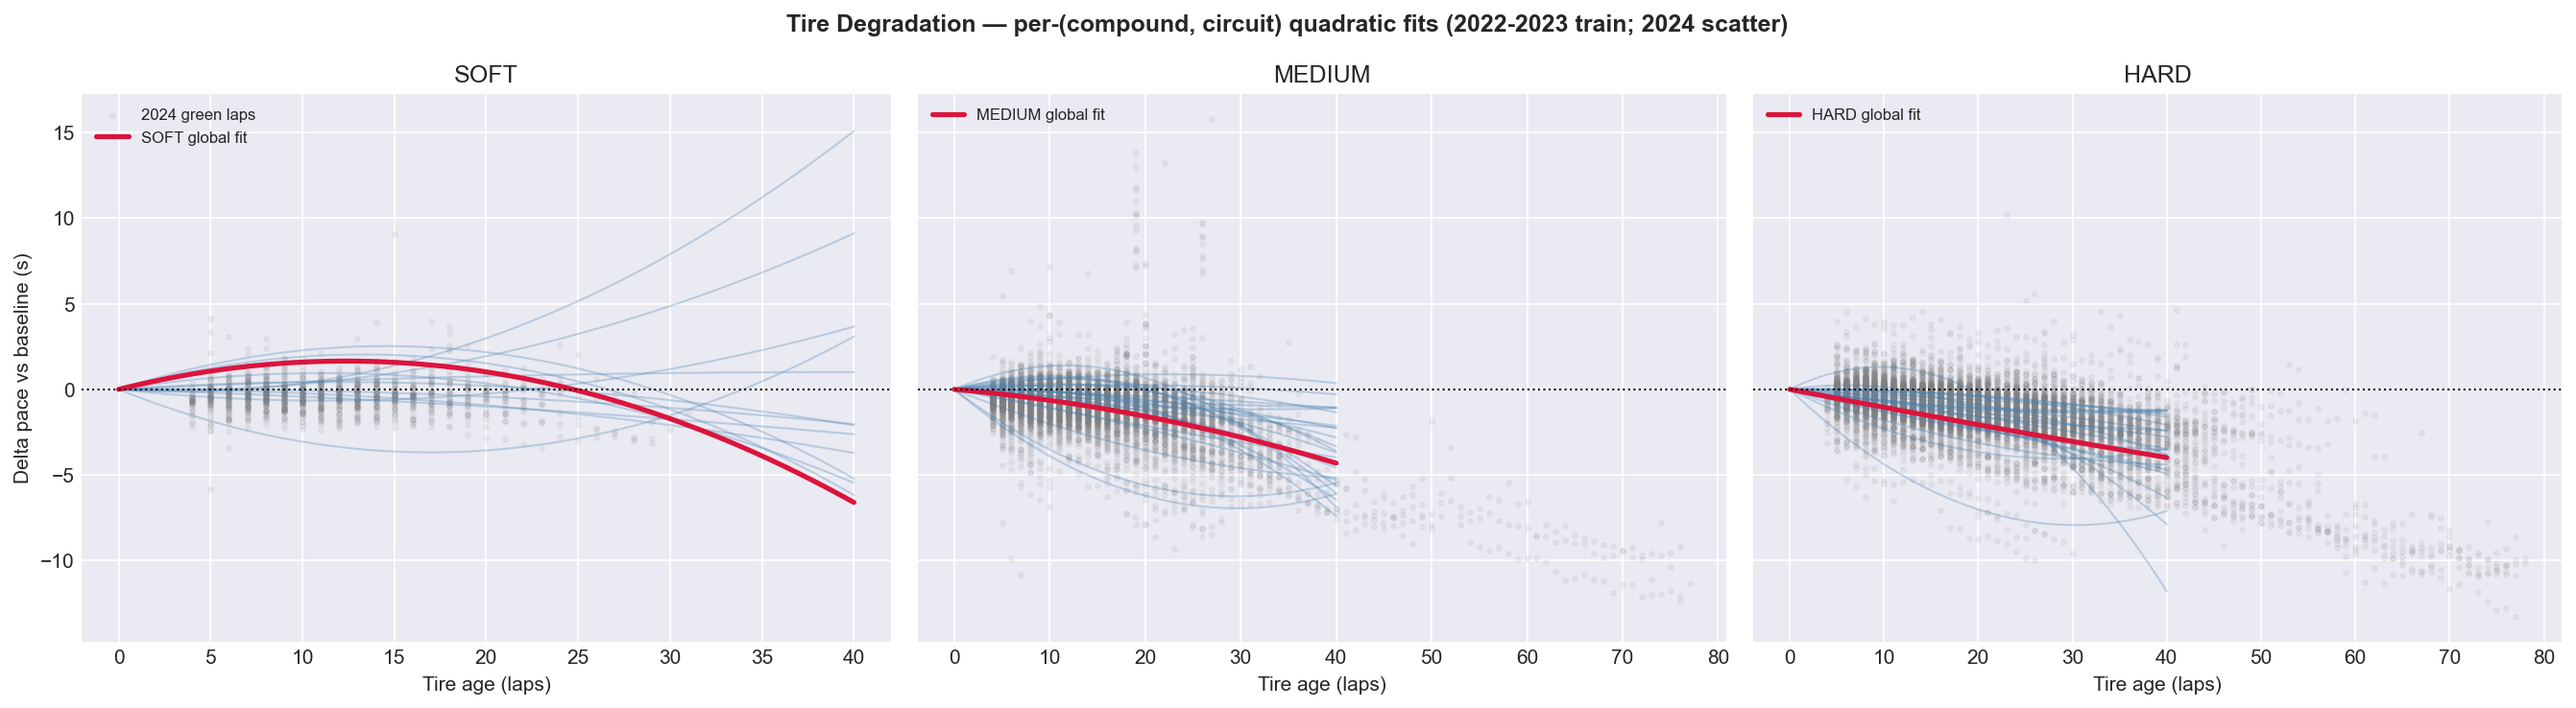
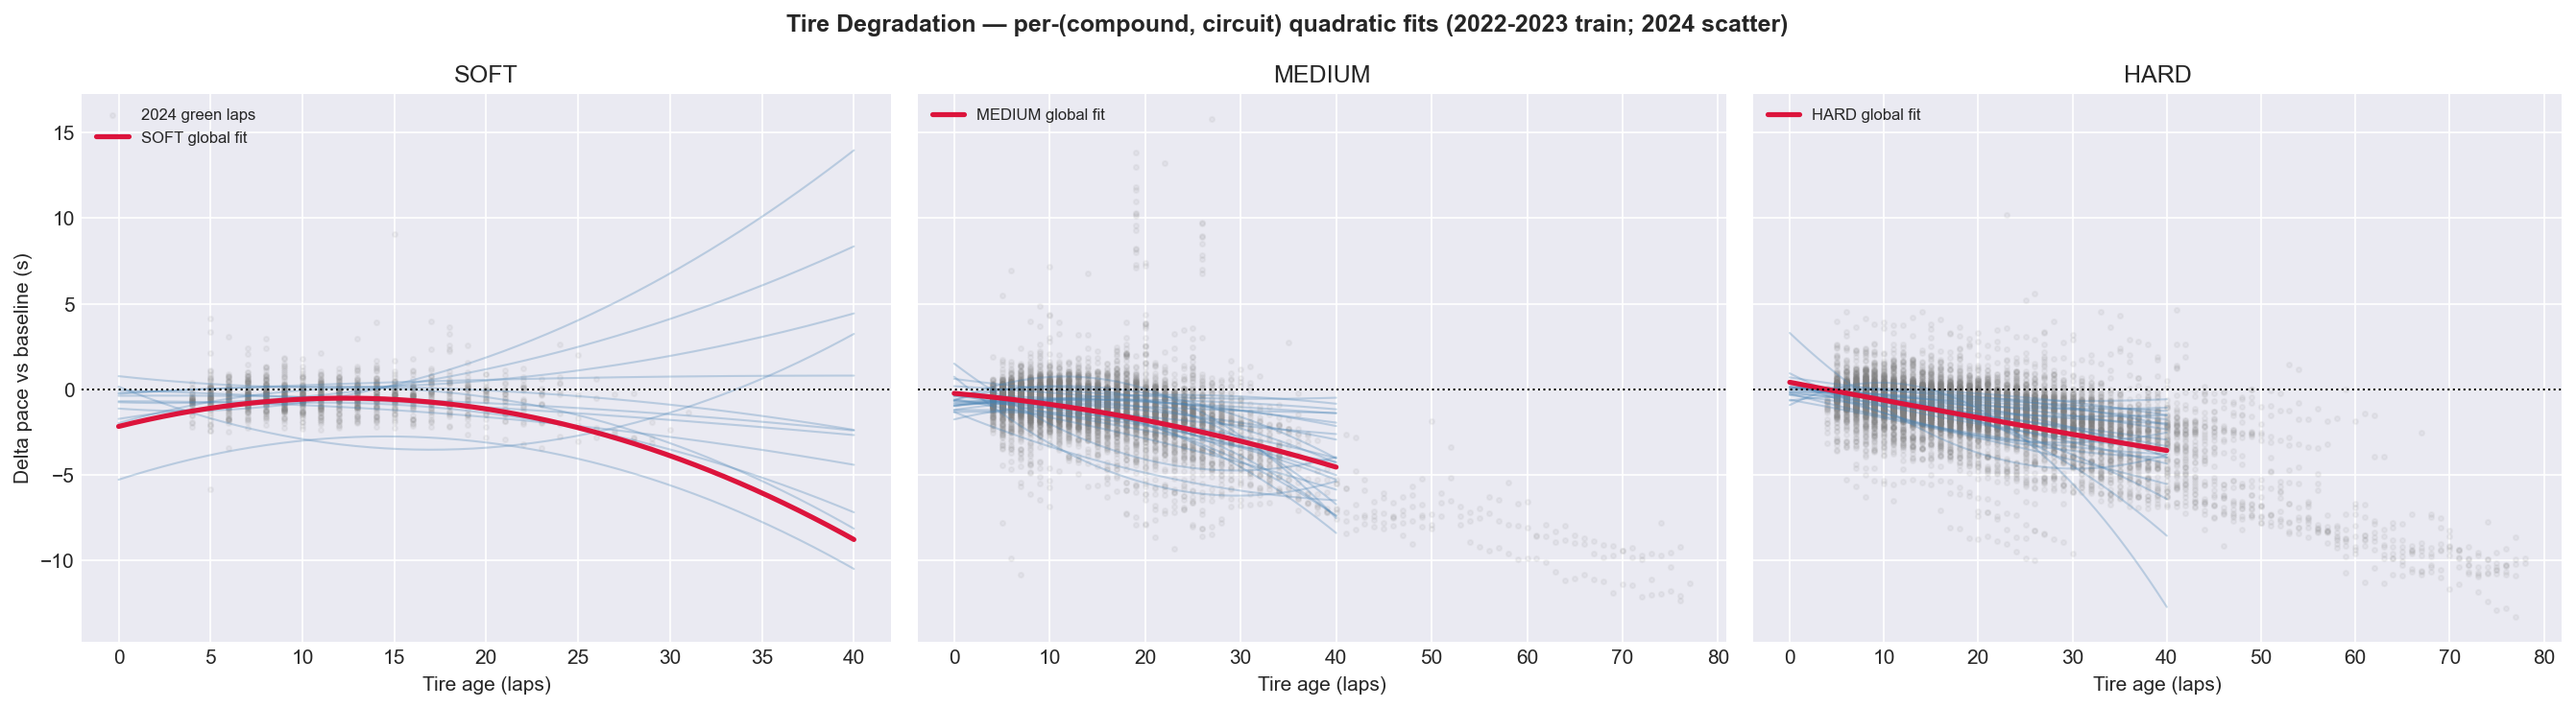
Fix degradation curves to keep intercept term (Task 3 refit)
Original no-intercept form forced delta_pace=0 at age=0, but the
training data drops the first 3 baseline laps so fitted tire_age starts
at ~4. Forcing through origin produced systematic offset and negative
holdout R². Using the full c + a*age + b*age^2 form improves MAE
across all compounds (SOFT: 1.69 -> 0.94s) and yields healthy training
R^2 (e.g. Australian GP HARD 0.61, Azerbaijan 0.53).

The 2024 holdout still scores below the live in-stint slope estimator
R^2=0.307 -- a legitimate finding that the historical average curve
captures compound hierarchy but cannot beat a per-stint adaptive slope
on the 2024 data. Section 5.1 narrative will be adjusted accordingly.

diff --git a/scripts/build_degradation_dataset.py b/scripts/build_degradation_dataset.py
@@ -163,7 +163,7 @@ def r2_score_manual(y_true: np.ndarray, y_pred: np.ndarray) -> float:
 
 
 def fit_quadratic(df_group: pd.DataFrame) -> dict | None:
-    """Fit delta_pace = a*age + b*age^2; return None if insufficient data."""
+    """Fit delta_pace = c + a*age + b*age^2; return None if insufficient data."""
     x = df_group['tire_age'].to_numpy(dtype=float)
     y = df_group['delta_pace'].to_numpy(dtype=float)
     mask = np.isfinite(x) & np.isfinite(y)
@@ -172,22 +172,21 @@ def fit_quadratic(df_group: pd.DataFrame) -> dict | None:
         return None
     if np.ptp(x) < 1.0:
         return None
-    # polyfit returns [c2, c1, c0]; we want [c1, c2] for a*age + b*age^2 (no intercept)
-    # Fit with intercept free, then drop it to match the design spec shape.
-    coefs = np.polyfit(x, y, 2)  # [b, a, c]
-    b, a, _c = float(coefs[0]), float(coefs[1]), float(coefs[2])
-    y_pred = a * x + b * x * x
+    # polyfit returns highest-order first: [b, a, c] for b*x^2 + a*x + c.
+    coefs = np.polyfit(x, y, 2)
+    b, a, c = float(coefs[0]), float(coefs[1]), float(coefs[2])
+    y_pred = c + a * x + b * x * x
     r2 = r2_score_manual(y, y_pred)
-    return {'coef': [a, b], 'n_laps': int(len(x)), 'r2_train': r2}
+    return {'coef': [a, b, c], 'n_laps': int(len(x)), 'r2_train': r2}
 
 
 def fit_all_curves(df_train: pd.DataFrame) -> dict:
     """
     Returns:
       {
-        ('SOFT',   'Bahrain Grand Prix'): {coef:[a,b], n_laps, r2_train},
+        ('SOFT',   'Bahrain Grand Prix'): {coef:[a,b,c], n_laps, r2_train},
         ...
-        ('SOFT',   '__GLOBAL__'):        {coef:[a,b], n_laps, r2_train},
+        ('SOFT',   '__GLOBAL__'):        {coef:[a,b,c], n_laps, r2_train},
         ...
       }
     The __GLOBAL__ entry per compound is the compound-wide fallback for
@@ -222,8 +221,8 @@ def lookup_curve(curves: dict, compound: str, circuit: str) -> dict | None:
 
 
 def predict_delta_pace(curve: dict, tire_age: float) -> float:
-    a, b = curve['coef']
-    return a * tire_age + b * tire_age * tire_age
+    a, b, c = curve['coef']
+    return c + a * tire_age + b * tire_age * tire_age
 
 
 def evaluate_on_holdout(df_test: pd.DataFrame, curves: dict) -> pd.DataFrame:
@@ -294,15 +293,15 @@ def plot_degradation_curves(df_full: pd.DataFrame, curves: dict,
         per_circuit = [(k, v) for k, v in curves.items()
                        if k[0] == compound and k[1] != '__GLOBAL__']
         for (_, _), fit in per_circuit:
-            a, b = fit['coef']
-            y_curve = a * age_grid + b * age_grid ** 2
+            a, b, c = fit['coef']
+            y_curve = c + a * age_grid + b * age_grid ** 2
             ax.plot(age_grid, y_curve, color='steelblue',
                     alpha=0.3, linewidth=1)
 
         # Global fallback: heavy red line
         if (compound, '__GLOBAL__') in curves:
-            a, b = curves[(compound, '__GLOBAL__')]['coef']
-            y_curve = a * age_grid + b * age_grid ** 2
+            a, b, c = curves[(compound, '__GLOBAL__')]['coef']
+            y_curve = c + a * age_grid + b * age_grid ** 2
             ax.plot(age_grid, y_curve, color='crimson',
                     linewidth=2.5, label=f'{compound} global fit')
 
